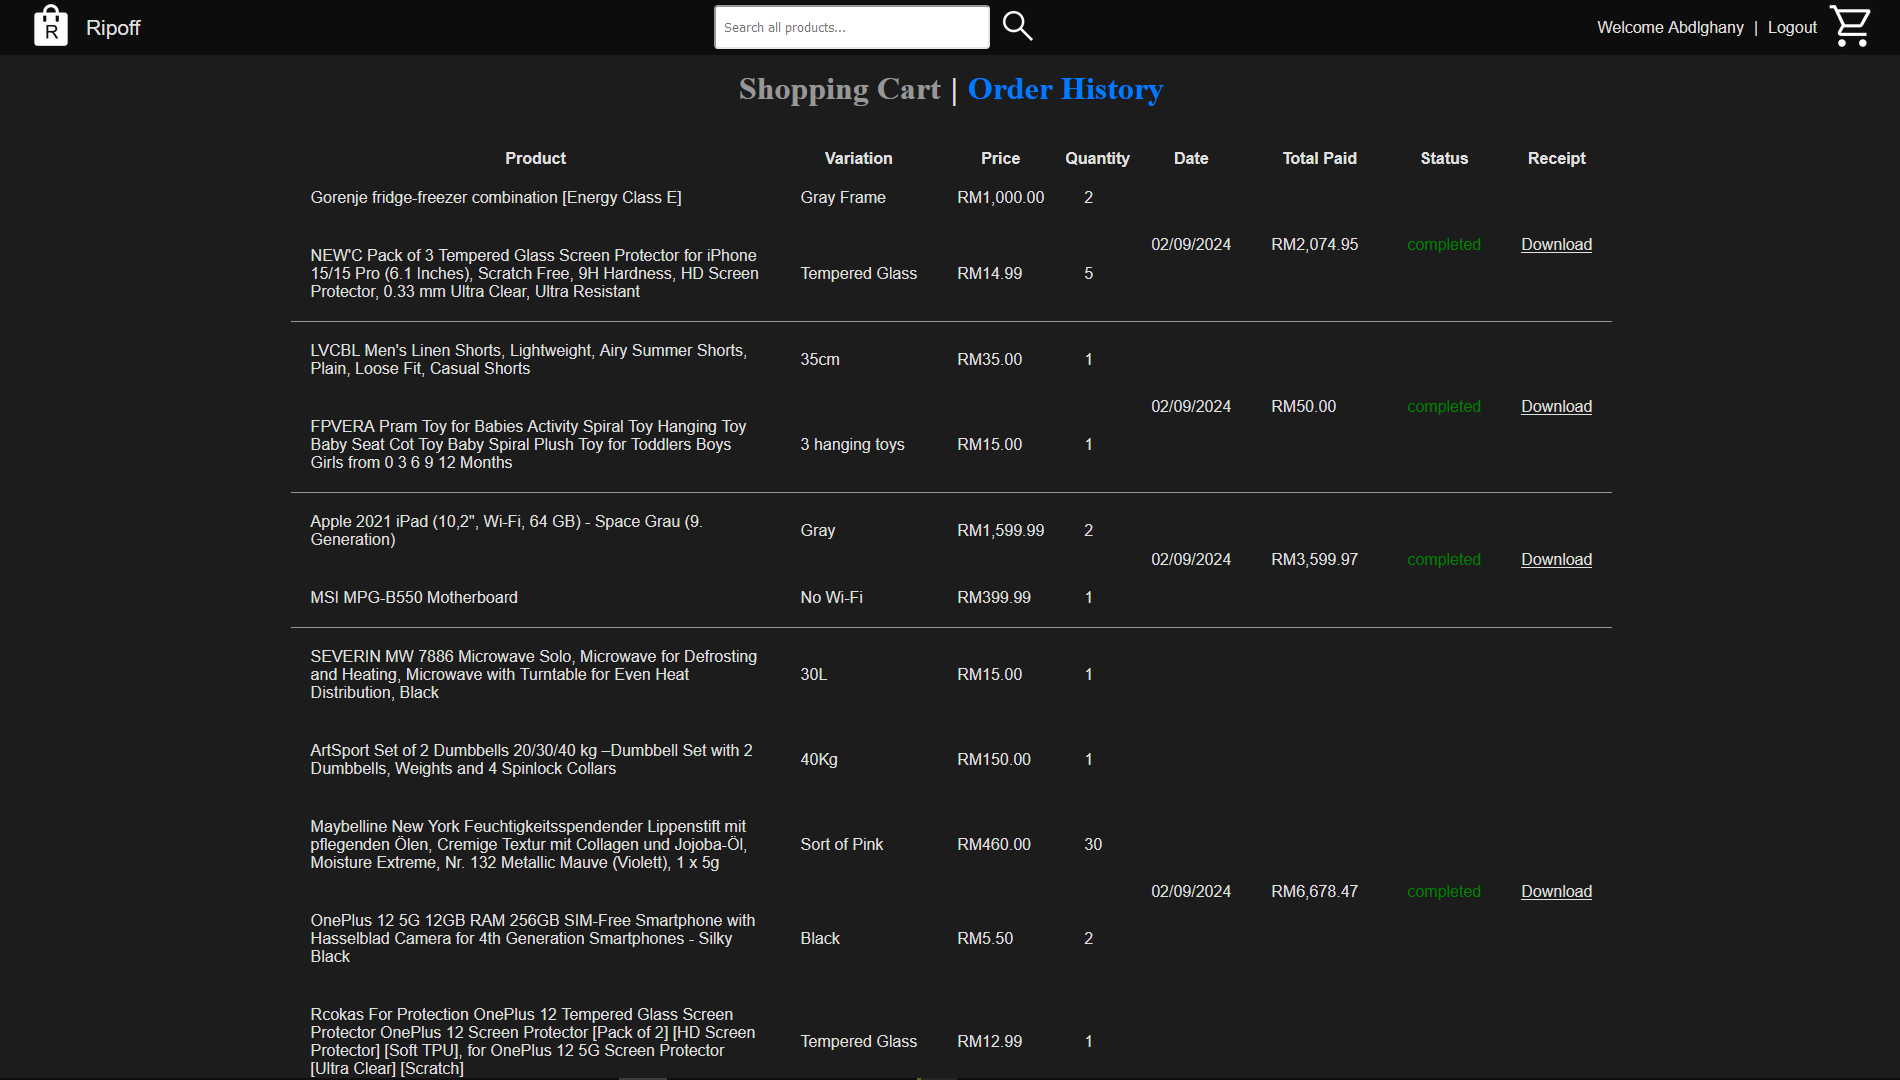
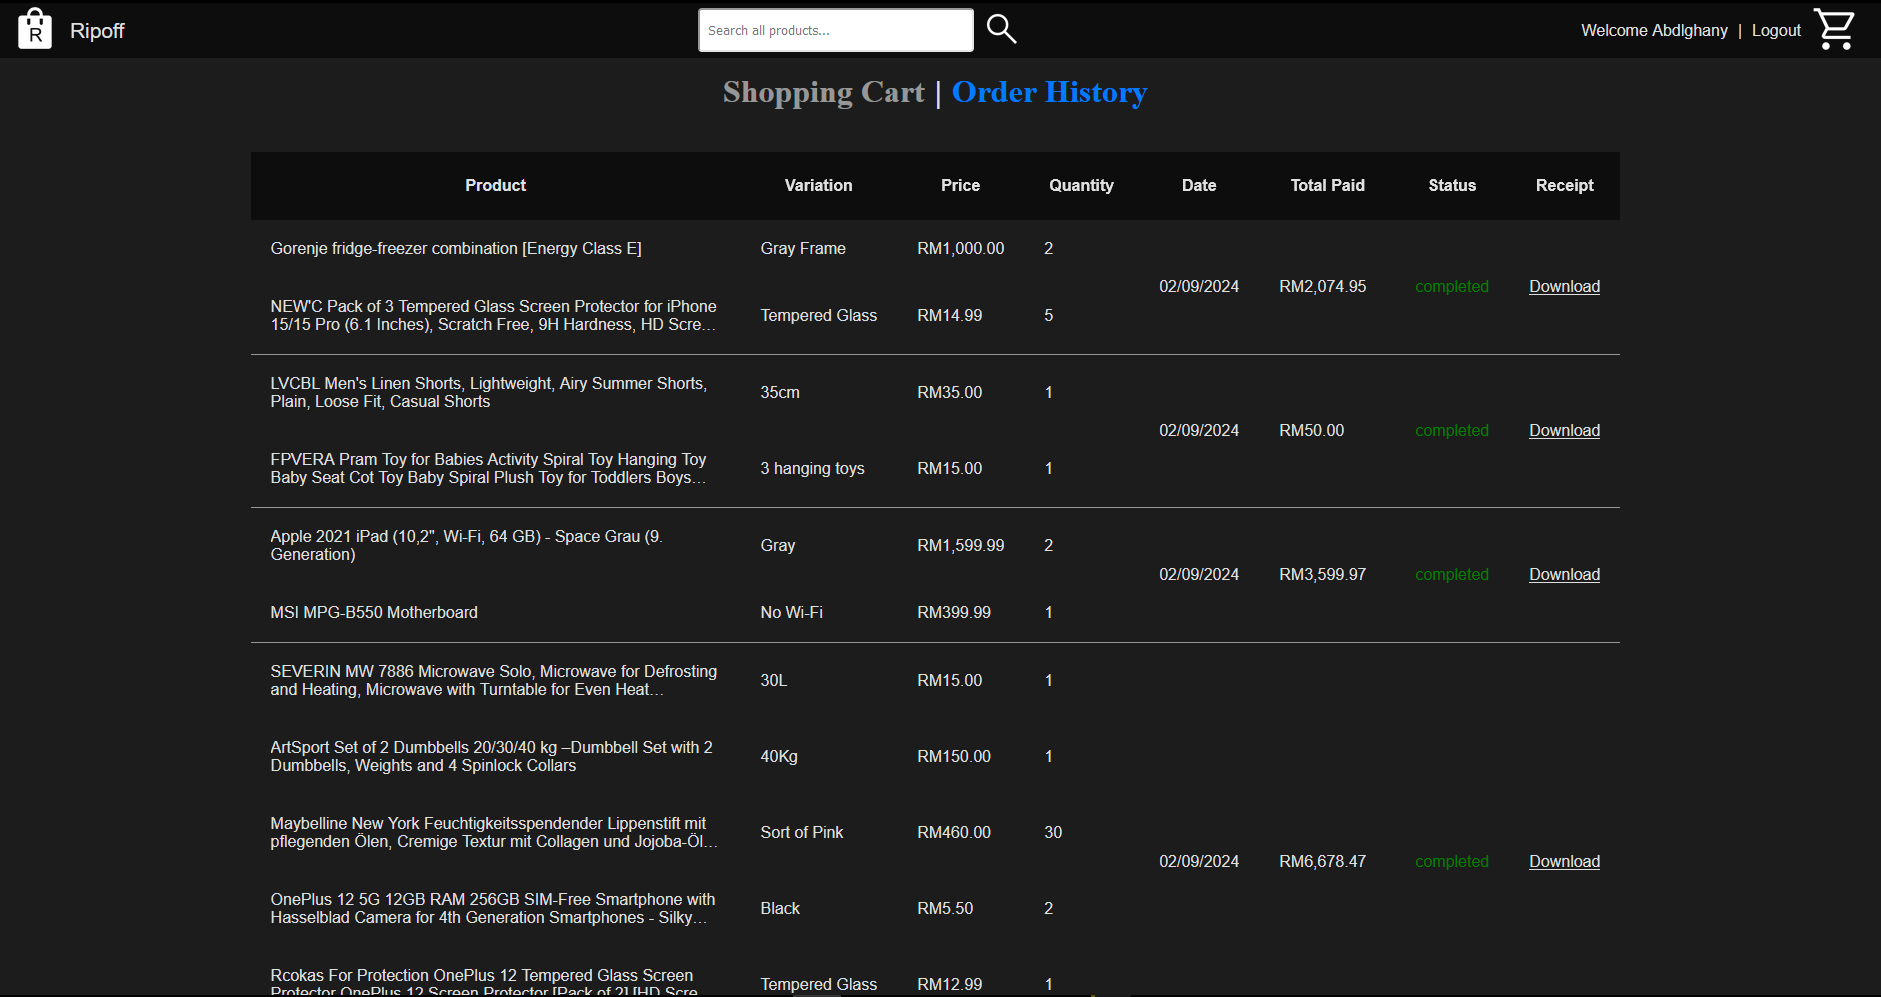
wip

diff --git a/Ripoff/Client/css/styles.css b/Ripoff/Client/css/styles.css
@@ -286,7 +286,7 @@ input[type=number] {
 .product p{
     width: 300px;
     height: 36px;
-    -webkit-line-clamp: 2; /* Limit number of lines to 2 (overwrite existing limit to 1)*/
+    -webkit-line-clamp: 2; /* Limit number of lines to 2 */
 }
 
 .product img{
@@ -614,14 +614,29 @@ input[type=number] {
 }
 .cart-item-info h3,
 .variation-quantity-price p,
-.product p{
+.product p,
+.productLinkInHistory{
     overflow: hidden;
     text-overflow: ellipsis;
     display: -webkit-box;
-    -webkit-line-clamp: 1; /* Limit number of lines to 1 */
     -webkit-box-orient: vertical;
 }
-
+#historyTableHead{
+    position: sticky;
+    top: 3.4rem;
+    background-color: #0D0D0D;
+}
+#historyTableHead th{
+    padding: 25px ;
+}
+.cart-item-info h3,
+.variation-quantity-price p,
+.product p{
+    -webkit-line-clamp: 1; /* Limit number of lines to 1 */
+}
+.productLinkInHistory{
+    -webkit-line-clamp: 2; /* Limit number of lines to 2 */
+}
 .cart-item-price label{
     font-size: 1.2rem;
     font-weight: bold;

diff --git a/Ripoff/Client/editaddress.html b/Ripoff/Client/editaddress.html
@@ -15,7 +15,7 @@
                 <thead>
                     <tr>
                         <td colspan="2">
-                            <h2>Add an Address</h2>
+                            <h2>Edit Address</h2>
                         </td>
                     </tr>
                 </thead>

diff --git a/Ripoff/Client/cart.html b/Ripoff/Client/cart.html
@@ -17,7 +17,7 @@
         </div>
         <div id="history" class="display_none">
             <table>
-                <thead>
+                <thead id="historyTableHead">
                     <tr>
                         <th>Product</th>
                         <th>Variation</th>

diff --git a/Ripoff/README.md b/Ripoff/README.md
@@ -42,22 +42,37 @@ Ripoff is a webshop that was made especially to rip people off and steal their m
 
 ![Products page picture](Screenshots/products.png)
 
+#### Sort menu
+
+![Sort menu picture](Screenshots/sort.png)
+
+#### Search example
+
+![Search example picture](Screenshots/search.png)
+
 ### Singular product page [product.html](Client/product.html)
 
 ![Product page picture](Screenshots/product.png)
 
 ### User profile page [user.html](Client/user.html)
 
+#### User profile without addresses shown
+
 ![User profile page picture](Screenshots/user.png)
+
+#### User profile with addresses shown 
+
+![User profile page with addresses picture](Screenshots/addresses.png)
+
+### Add new address page [addaddress.html](Client/addaddress.html)
+
+![Add new address page picture](Screenshots/addaddress.png)
+
+### Edit address page [editaddress.html](Client/editaddress.html)
+
+![Edit address page picture](Screenshots/editaddress.png)
+
 ### Functional requirements:
-- create a user account, login
-- Login, forgot pw, chnage pw, change username (can't have duplicate emails).
-- account information needs to be secure.
-- Able to view & order products / services
-- using filters to choose products / services
-- order(customerNo, order_id, order_details, products in this order)
-- order confirmation -> PDF To EMAIL
-- store bill in DB (No real transactions)
 - shopping cart, past purchases, show products in your basket.....
 -----------
 ### Technical requirements:
